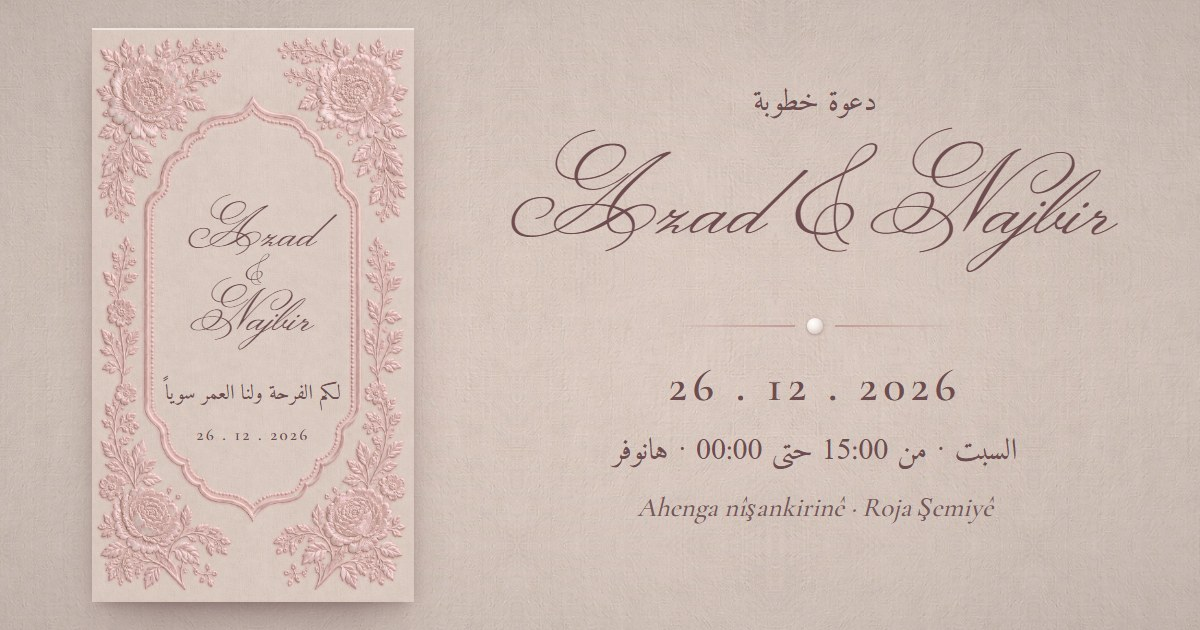
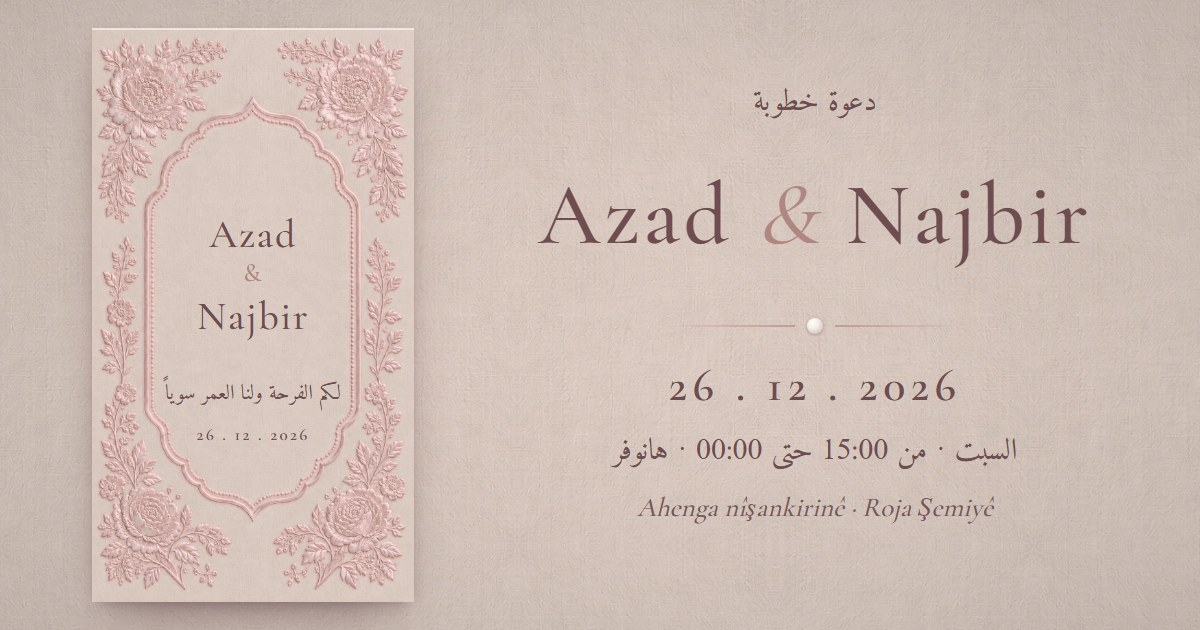
دعوة ErcJsBi: أسامي العرسان بالإنجليزي بخط واضح (Cormorant) بدل الخط المزخرف — في الكارت والكلام والختام وصورة اللينك
Claude-Session: https://claude.ai/code/session_01VKo1mCg4U4XatxSLATVCTJ

diff --git a/custom-invitations/ErcJsBi.js b/custom-invitations/ErcJsBi.js
@@ -54,7 +54,9 @@ html:not(.ek-ku) .ek-ku,html.ek-ku .ek-ar{display:none!important}
 .ek-ar{font-family:'Amiri','Amiri Ar Local',serif;letter-spacing:0}
 .ek-ku{font-family:'Cormorant Garamond',serif;letter-spacing:.01em}
 /* أسامي الكارت الأول: نفس الخط المزخرف في اللغتين */
-.ht-names h1,.ft-nm{font-family:'Monsieur La Doulaise Local',cursive!important;letter-spacing:0!important}
+.ht-names h1,.ft-nm{font-family:'Cormorant Garamond',serif!important;font-weight:500!important;letter-spacing:.04em!important}
+/* (المالك 2026-11-25) أسامي العرسان بالإنجليزي بخط واضح يتقري (Cormorant) بدل الخط المزخرف */
+.ht-names h1{font-size:calc(46px*var(--fit,1))!important;line-height:1.15!important}
 .ht-of{display:none!important}
 .ht-with{font-style:normal!important}
 .ht-with .ek-ar{font-size:1.18em}
@@ -71,7 +73,8 @@ html:not(.ek-ku) .ek-ku,html.ek-ku .ek-ar{display:none!important}
 .ekw .h .ek-ku{font-size:19px;line-height:1.5}
 .ekw .i{margin-top:20px;font-size:19px;line-height:1.8}
 .ekw .i .ek-ku{font-size:19px;line-height:1.5}
-.ekw .n{margin-top:12px;font-family:'Monsieur La Doulaise Local',cursive;font-size:46px;line-height:1.2;direction:ltr}
+.ekw .n{margin-top:14px;font-family:'Cormorant Garamond',serif;font-weight:500;font-size:36px;letter-spacing:.04em;line-height:1.2;direction:ltr}
+.ekw .n i{font-style:italic;font-weight:400;color:#b08680;padding:0 .12em}
 .ekw .w{margin-top:10px;font-size:18px;line-height:1.8}
 .ekw .w .ek-ku{font-size:18px;line-height:1.5}
 .ekw .sep{display:block;width:140px;height:10px;margin:16px auto 0;position:relative;background:linear-gradient(to right,transparent,rgba(var(--rose-rgb),.9)) left 5px/58px 1px no-repeat,linear-gradient(to left,transparent,rgba(var(--rose-rgb),.9)) right 5px/58px 1px no-repeat}
@@ -83,7 +86,7 @@ html:not(.ek-ku) .ek-ku,html.ek-ku .ek-ar{display:none!important}
 .ft-en-h .ek-ku{font-size:24px}
 /* التاريخ والساعة بيتقروا من الشمال لليمين في العربي كمان */
 [data-elem-id="mp5"],[data-elem-id="mp7"],[data-elem-id="mp52"],[data-elem-id="mp53"],.ek-ltr{direction:ltr;unicode-bidi:isolate}
-.ht-amp,.ft-amp{font-family:'Monsieur La Doulaise Local',cursive!important;font-size:30px!important;line-height:1.2!important}
+.ht-amp,.ft-amp{font-family:'Cormorant Garamond',serif!important;font-style:italic!important;font-weight:400!important;color:#b08680!important;font-size:28px!important;line-height:1.1!important;margin:4px 0!important}
 /* زرار اللغة (فوق على اليمين) */
 .ek-lang{position:fixed;z-index:60;top:calc(14px + env(safe-area-inset-top,0px));right:14px;display:flex;padding:3px;border-radius:30px;direction:ltr;
   background:rgba(255,248,245,.82);box-shadow:0 0 0 1px rgba(var(--fg-rgb),.25),0 6px 18px -8px rgba(80,50,50,.45);-webkit-backdrop-filter:blur(6px);backdrop-filter:blur(6px)}
@@ -101,7 +104,7 @@ const WORDS = `
       <p class="h">${bi('hamd')}</p>
       <i class="sep"></i>
       <p class="i">${bi('inv')}</p>
-      <p class="n">Azad &amp; Najbir</p>
+      <p class="n">Azad <i>&amp;</i> Najbir</p>
       <p class="w">${bi('when')}</p>
     </div></section>
   </div>
